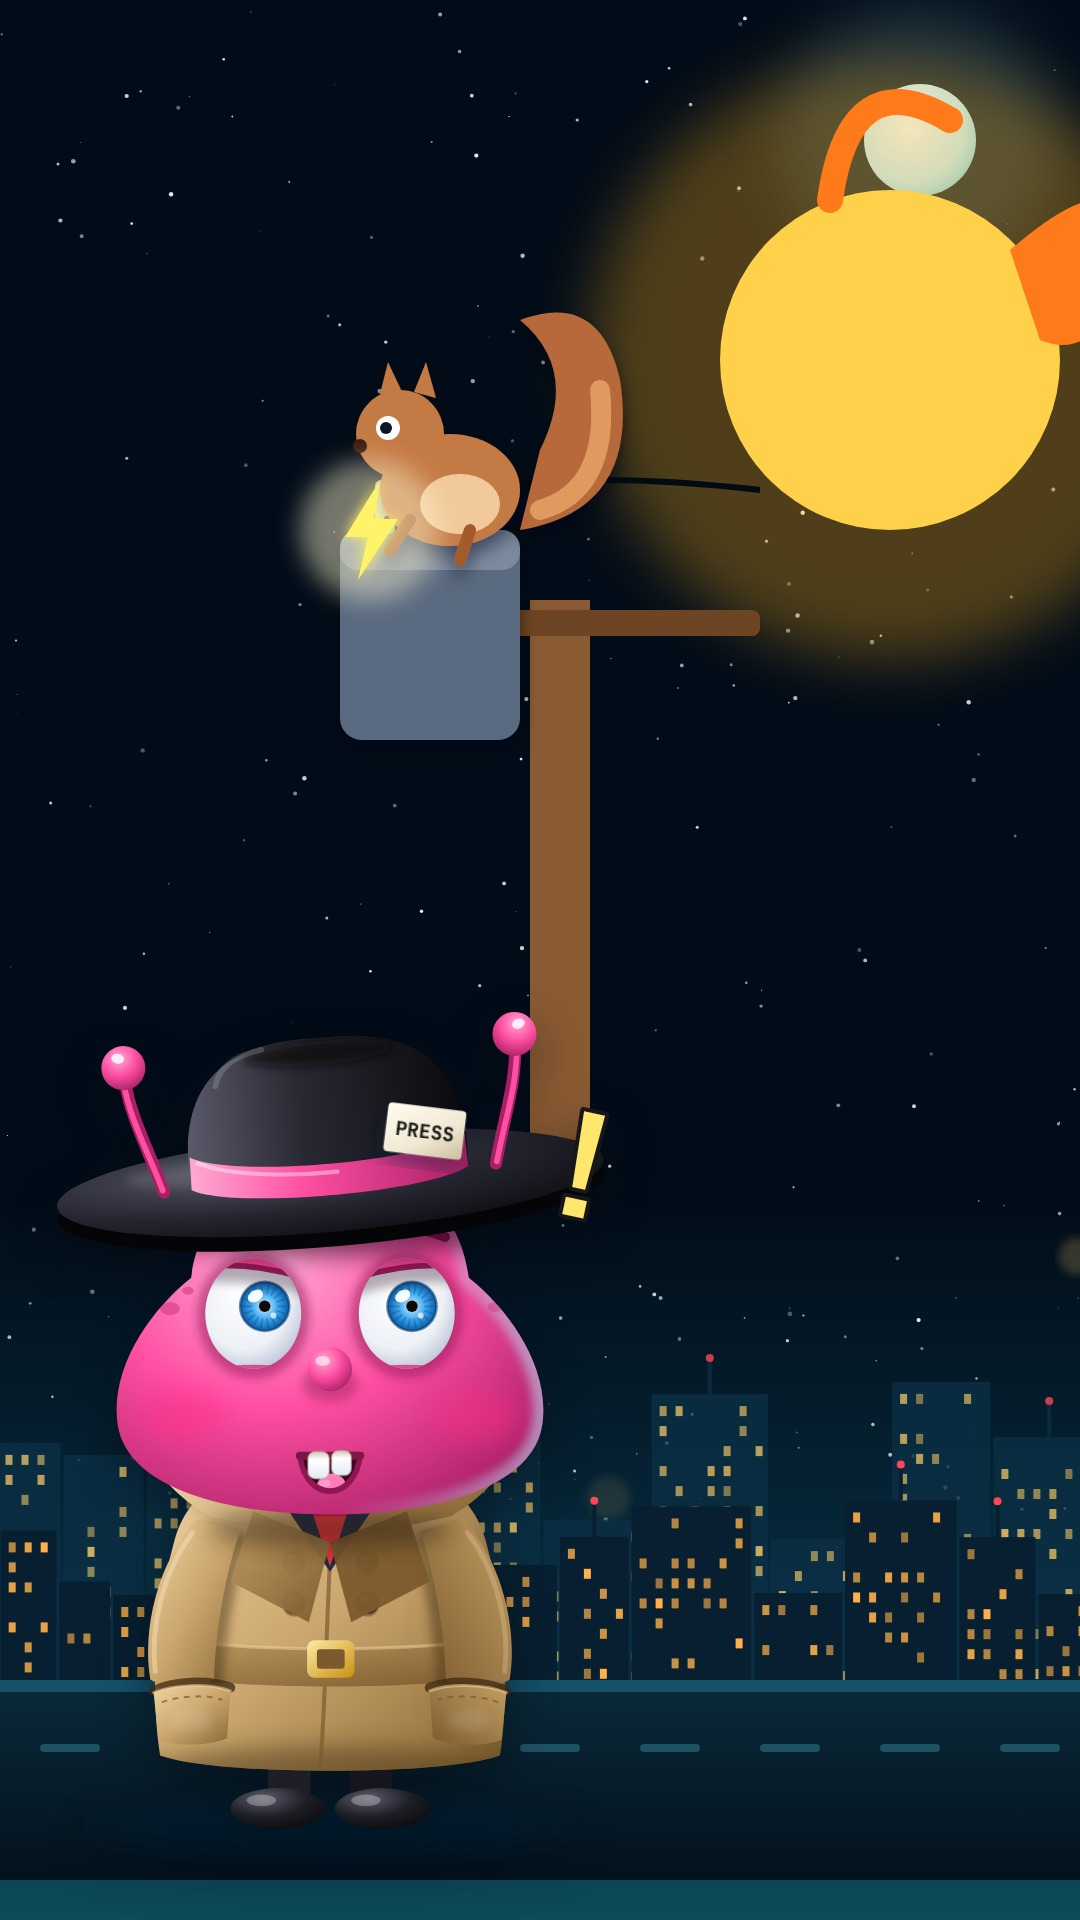
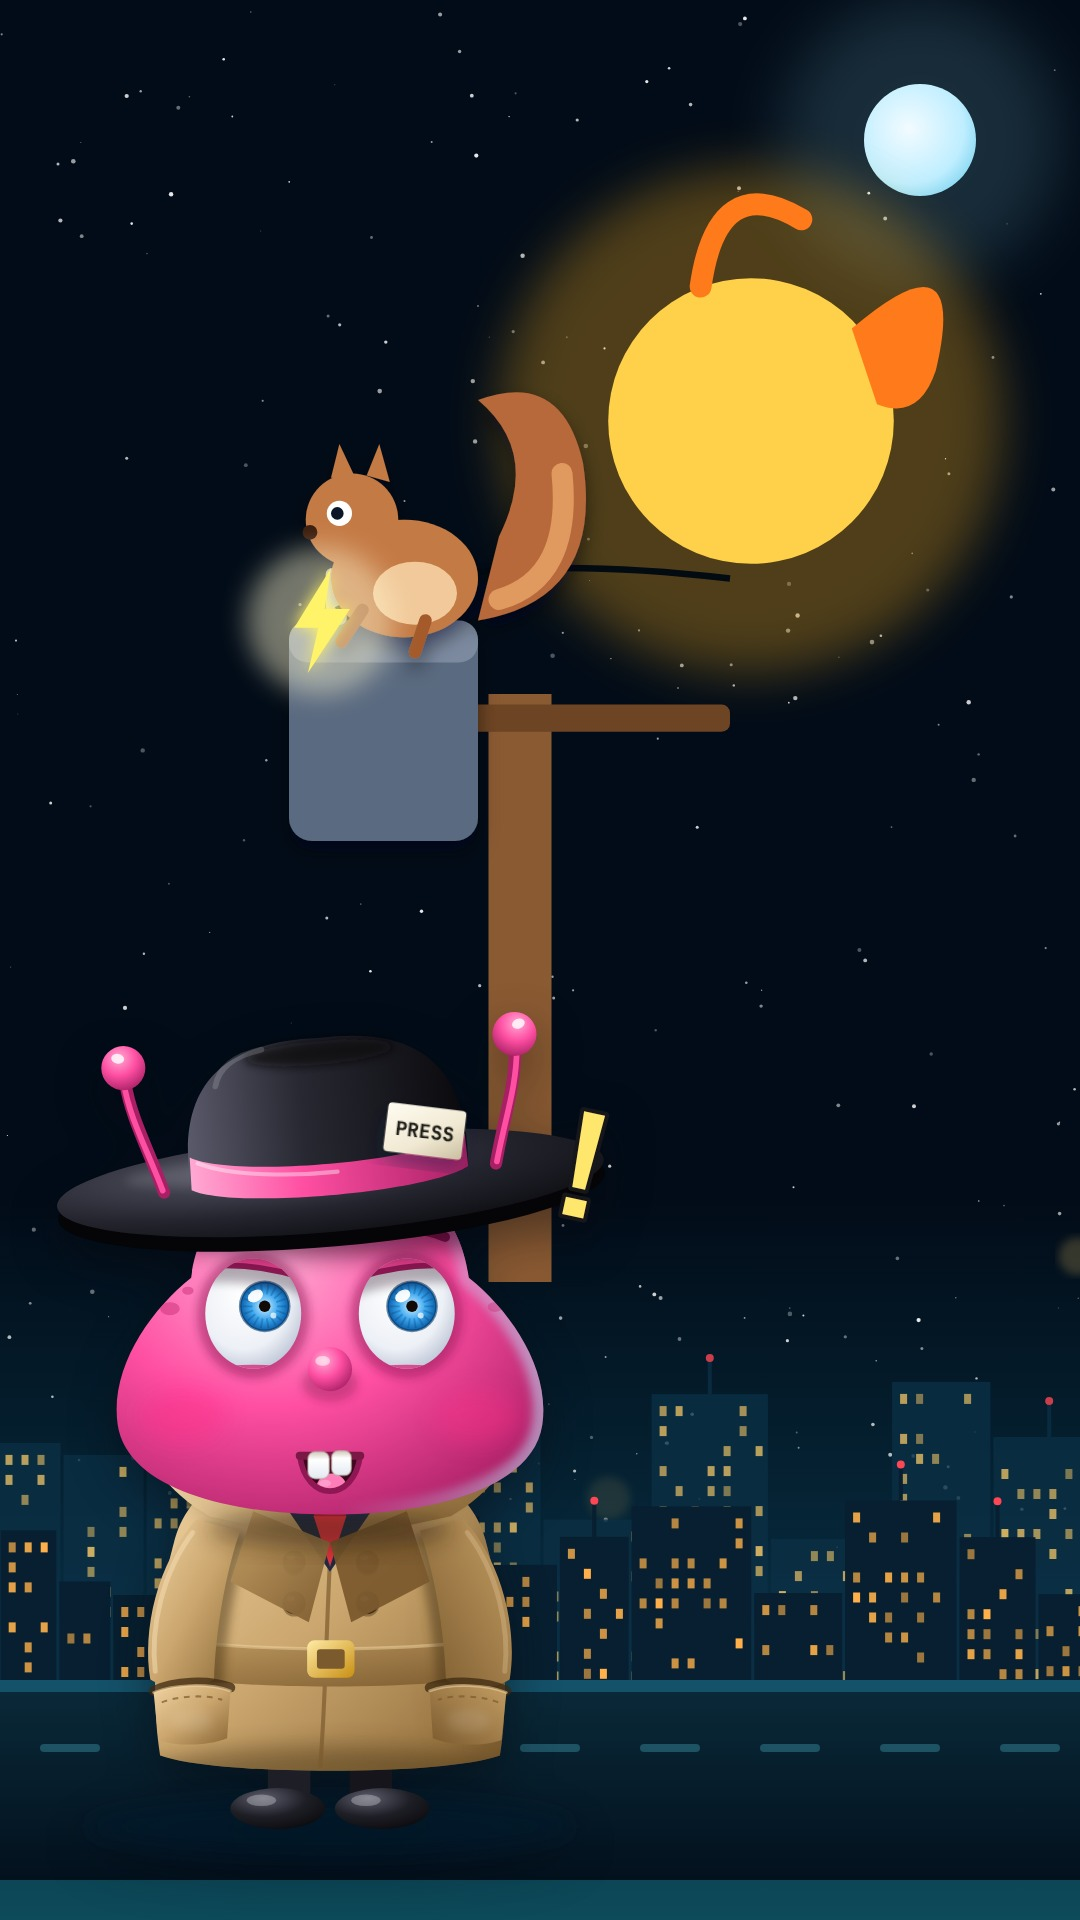
Electricity part 3: thumbnails in progress
Claude-Session: https://claude.ai/code/session_01Ey97nkhua6Ttnp4J1ZLq9L

Changed region(s): [[0.2139, 0.0, 1.0, 0.5938], [0.4278, 0.625, 0.5194, 0.6875]]

diff --git a/video/sets/blackstart.js b/video/sets/blackstart.js
@@ -1,5 +1,87 @@
-// Stub for the "blackstart" set of electricity part 3: replaced by the drawn set (episodes/techforbadguys/explain-electricity-03-world/shots.md).
-import { camAt, layer, text, makeSet } from "./kit.js";
-import { P, stars } from "./elec.js";
-const stub = (k) => (a, tot) => { const c = camAt(a, [[0, 960, 540, 1]]); return { g: `<rect width="1920" height="1080" fill="url(#bnight)"/>` + layer(stars(3, 60, 0, 1920, 1080, tot), c, 0.2) + text(960, 560, "blackstart " + k, 120, P.gold) }; };
-export const blackstartSet = makeSet(Array.from({ length: 12 }, (_, k) => stub(k)), [], P);
+// "Black start" (electricity part 3 of 4): how a dark country comes back.
+//   0 a dark country of towns and lines, a "?"; push into one station: it needs its own pumps, fans and computers to
+//     start, and they are dark (✗ on each word)
+//   1 the same country: a dam lights by itself (a gold star), wakes the station next to it, and the lit island grows
+//     town by town
+//   2 each piece joins only when its pulse matches the 50 Hz dial; a clock runs hours, calendar pages days; the fall is a
+//     fast arrow (s), the rise a slow one (h). Host left: the lower left is kept clear.
+// Props shared with the recap are exported (land, dam).
+import { clamp, lerp, ease, easeOut, seg, spring, rnd, kf, camAt, layer, toScreen, rr, two, disc, rings, text, drawn, at, check, cross, FW, FH, makeSet, portrait } from "./kit.js";
+import { V } from "./blackstart.v.js";
+import { P, E, mix, stars, pop, station, gauge } from "./elec.js";
+import { calPage, calFlip } from "./props.js";
+import { dial, stopwatch, signal, RED } from "./balance.js";
+
+const LAND = "#164a62", LANDD = "#0f3a4f", DARKW = "#12303e";
+// the country, stylised, in world coordinates about 200..1720 x 140..940
+export const LANDP = "M260 520L330 360L480 260L700 200L960 170L1220 200L1450 260L1620 380L1700 540L1640 720L1480 840L1240 910L960 930L700 900L470 830L310 700Z";
+// towns (x, y) and the lines between them; the dam (index 0) is in the hills at the top left
+export const TOWNS = [[520, 330], [700, 420], [900, 360], [1100, 300], [1320, 380], [1500, 500], [1400, 680], [1180, 760], [940, 700], [700, 660], [520, 560], [1100, 540], [880, 540], [1300, 560]];
+const LINKS = [[0, 1], [1, 2], [2, 3], [3, 4], [4, 5], [5, 6], [6, 7], [7, 8], [8, 9], [9, 10], [10, 1], [1, 12], [12, 11], [11, 4], [11, 13], [13, 6], [12, 8], [2, 12], [11, 7]];
+export const land = (on, o = {}) => { // on(i) 0..1 for each town
+  const lines = LINKS.map(([i, j]) => { const L = Math.min(on(i), on(j)); return `<path d="M${TOWNS[i][0]} ${TOWNS[i][1]}L${TOWNS[j][0]} ${TOWNS[j][1]}" stroke="${mix("#21495c", E.el, L)}" stroke-width="7" opacity=".9"/>`; }).join("");
+  const dots = TOWNS.map(([x, y], i) => { if (i === 0 && !o.noDam) return ""; const L = on(i); return `${L > 0 ? rings(x, y, 34, P.win, 0.3 * L, 1.5) : ""}${[0, 1, 2].map((k) => `<rect x="${x - 26 + k * 18}" y="${y - 16 - (k % 2) * 10}" width="14" height="${26 + (k % 2) * 10}" rx="3" fill="${mix(DARKW, P.win, L)}"/>`).join("")}`; }).join("");
+  return two(LANDP, LAND, LANDD, 0, 12) + `<path d="M380 260Q520 300 560 420Q600 560 760 600" fill="none" stroke="${E.waterD}" stroke-width="14" opacity=".8"/>` + lines + dots; };
+// a dam (base on y = 0), 220 wide; lit 0..1
+export const dam = (lit = 0, t = 0) => `${two("M-110 0L-80 -150H80L110 0Z", "#9fb6c8", "#7890a5", 0, 8)}<path d="M-60 -150H60L50 -170H-50Z" fill="#7890a5"/>${[-40, 0, 40].map((x) => `<path d="${rr(x - 10, -120, 20, 120, 6)}" fill="${mix("#2a5a72", E.water, lit)}" opacity="${(0.5 + 0.5 * lit).toFixed(2)}"/>`).join("")}<path d="M-180 -150H-80" stroke="${E.water}" stroke-width="18"/>${lit > 0 ? rings(0, -90, 120 * lit, P.gold, 0.25 * lit, 1.5) : ""}<circle cx="0" cy="-185" r="12" fill="${mix("#2a3f4a", P.win, lit)}"/>`;
+const star = (r, c = P.gold) => `<path d="${Array.from({ length: 10 }, (_, i) => { const q = i / 10 * 2 * Math.PI - Math.PI / 2, R = i % 2 ? r * 0.45 : r; return `${i ? "L" : "M"}${(R * Math.cos(q)).toFixed(1)} ${(R * Math.sin(q)).toFixed(1)}`; }).join("")}Z" fill="${c}"/>`;
+// the three things a station needs to start (centre each, about 120 across); on 0..1
+const pump = (on, t) => `${two(rr(-60, -40, 120, 80, 16), "#5b7f8f", "#45687a", 0, 6)}<g transform="rotate(${(t * 200 * on).toFixed(1)})">${[0, 1, 2, 3].map((i) => `<path d="M0 0L30 -8L30 8Z" fill="${mix("#2a3f4a", E.water, on)}" transform="rotate(${i * 90})"/>`).join("")}</g><path d="M60 0H100" stroke="${E.waterD}" stroke-width="16"/>`;
+const fan = (on, t) => `${disc(0, 0, 64, "#5b7f8f", "#45687a")}<g transform="rotate(${(t * 400 * on).toFixed(1)})">${[0, 1, 2].map((i) => `<path d="M0 0Q30 -50 6 -56Q-12 -40 0 0Z" fill="${mix("#2a3f4a", "#cfe6f0", on)}" transform="rotate(${i * 120})"/>`).join("")}</g><circle r="10" fill="${P.ink}"/>`;
+const pc = (on) => `${two(rr(-70, -60, 140, 96, 10), "#2b5a74", "#1c4157", 0, 6)}<path d="${rr(-58, -50, 116, 76, 6)}" fill="${mix("#04121e", "#0b3346", on)}"/>${on > 0 ? `<path d="M-46 0L-20 -18L6 -6L40 -30" fill="none" stroke="${E.el}" stroke-width="6"/>` : ""}<path d="M-20 36h40l8 18h-56Z" fill="${P.steelD}"/>`;
+const night = (c, tot, seed = 5) => `<rect width="${FW}" height="${FH}" fill="url(#bnight)"/>` + layer(stars(seed, 110, -1200, 3200, 1200, tot), c, 0.15);
+const DAM = TOWNS[0], ST = [960, 520];
+
+// ---- 0: the country is dark; a station needs power to start ----
+function s0(a, tot) {
+  const v = portrait();
+  const c = camAt(a, v ? [[0, 960, 540, 0.66], [3.6, 960, 540, 0.68], [4.6, ST[0], ST[1] + 20, 2.6], [8.61, ST[0], ST[1] + 20, 2.7]] : [[0, 960, 540, 1.0], [3.6, 960, 540, 1.04], [4.6, ST[0], ST[1] - 20, 3.0], [8.61, ST[0], ST[1] - 20, 3.12]]);
+  const q = a > 2.0 ? at(960, 120, `${rings(0, -60, 110, P.gold, 0.25)}${text(0, 30, "?", 220, P.gold)}`, pop(a - 2.14) * (1 - seg(a, 3.7, 4.2))) : "";
+  const st = at(ST[0], ST[1] + 60, station(tot, { lit: 0, smoke: false }), 0.3);
+  const needs = [[6.28, -150, 0, pump], [7.0, 0, -130, fan], [7.64, 150, 0, pc]].map(([t0, dx, dy, f]) => a > t0 - 0.05 ? at(ST[0] + dx, ST[1] + dy, `${f(0, tot)}${at(44, -44, cross(0, 0, 22, RED, a - t0 - 0.15))}`, 0.42 * pop(a - t0)) : "").join("");
+  const g = night(c, tot, 13) + layer(land(() => 0) + at(DAM[0], DAM[1] + 40, dam(0), 0.42) + st + needs + q, c);
+  return { g, out: toScreen(c, ST[0], ST[1] + 30), outC: "#04121e", outZ: 10 };
+}
+
+// ---- 1: a dam starts alone and the island grows ----
+function s1(a, tot) {
+  const v = portrait();
+  const c = camAt(a, v ? [[0, 760, 520, 1.1], [5.0, 760, 500, 1.1], [7.2, 960, 540, 0.66], [8.96, 960, 540, 0.68]] : [[0, 820, 440, 1.6], [5.0, 760, 460, 1.55], [7.1, 960, 540, 1.0], [8.96, 960, 540, 1.03]]);
+  const self = seg(a, 3.07, 3.5);
+  const d0 = Math.hypot(TOWNS[1][0] - DAM[0], TOWNS[1][1] - DAM[1]);
+  const R = a < 5.63 ? 0 : a < 7.06 ? d0 + 10 : lerp(d0 + 10, 1300, ease(seg(a, 7.06, 8.6)));
+  const on = (i) => i === 0 ? self : clamp((R - Math.hypot(TOWNS[i][0] - DAM[0], TOWNS[i][1] - DAM[1])) / 80);
+  const wake = signal(DAM[0], DAM[1], TOWNS[1][0], TOWNS[1][1], seg(a, 5.0, 5.63));
+  const hi = a > 1.8 && a < 3.2 ? rings(DAM[0], DAM[1] - 20, 80 + 10 * Math.sin(a * 8), P.gold, 0.3, 1.4) : "";
+  const st = a > 3.0 ? at(DAM[0] + 90, DAM[1] - 110, star(36 * spring(a - 3.07, 7, 12))) : "";
+  const g = night(c, tot, 13) + layer(land(on) + at(DAM[0], DAM[1] + 40, dam(self, tot), 0.42) + hi + st + wake, c);
+  return { g, in: toScreen(c, ST[0], ST[1]), inC: "#04121e" };
+}
+
+// ---- 2: every piece in step; the fall is fast, the rise slow (host left) ----
+function s2(a, tot) {
+  const v = portrait();
+  const c = camAt(a, v ? [[0, 960, 900, 1.0], [7.52, 960, 900, 1.02]] : [[0, 980, 520, 1.0], [7.52, 980, 520, 1.02]]);
+  const DX = v ? 960 : 1150, DY = v ? 420 : 400;
+  const big = at(DX, DY, dial(50 + 0.03 * Math.sin(tot * 3), { r: v ? 230 : 220 }));
+  // three pieces with their own small dial; each needle sweeps, locks on 50, and the piece slides into the island
+  const T = [0.34, 1.36, 2.0];
+  const pieces = T.map((t0, i) => { const lock = seg(a, t0 + 0.4, t0 + 0.7), join = ease(seg(a, t0 + 0.7, t0 + 1.3));
+    const f = lock < 1 ? 50 + 0.7 * Math.sin(a * 6 + i) * (1 - lock) : 50;
+    const x0 = v ? 300 + i * 240 : 480 + i * 30, y0 = v ? 900 : 230 + i * 180, x1 = v ? 760 + i * 140 : DX - 120 + i * 120, y1 = v ? 760 : DY + 330;
+    const x = lerp(x0, x1, join), y = lerp(y0, y1, join), k = lerp(1, 0.6, join);
+    return at(x, y, `${two(rr(-100, -60, 200, 120, 18), "#164a62", "#0f3a4f", 0, 6)}${[0, 1, 2].map((j) => `<rect x="${-70 + j * 26}" y="-30" width="18" height="40" rx="3" fill="${mix(DARKW, P.win, join)}"/>`).join("")}${at(56, -2, dial(f, { r: 40, lit: lock }), 1)}${lock >= 1 ? rings(56, -2, 50, P.green, 0.3 * (1 - join), 1.3) : ""}`, k); }).join("");
+  // hours on a clock, days on calendar pages
+  const CX = v ? 760 : 1540, CY = v ? 1180 : 760;
+  const clock = a > 3.3 ? at(CX, CY, `${stopwatch(seg(a, 3.36, 5.4) * 6, 70)}${at(120, 0, text(0, 30, "h", 80, P.gold))}`, pop(a - 3.36)) : "";
+  const days = a > 4.4 ? at(CX + 300, CY - 10, [0, 1, 2].map((k) => k === 0 ? calPage("3", "", 0.5, 150) : calFlip(String(k === 2 ? 1 : 2), "", seg(a, 4.6 + (2 - k) * 0.3, 4.9 + (2 - k) * 0.3), 150)).join(""), 0.5 * pop(a - 4.5)) : "";
+  // the fall and the rise
+  const AX = v ? 760 : 780, AY = v ? 1520 : 800;
+  const fall = a > 5.4 ? at(AX, AY, `${drawn("M0 -150L0 120", seg(a, 5.44, 5.6), RED, 26)}<path d="M-50 70L0 140L50 70Z" fill="${RED}" opacity="${seg(a, 5.55, 5.65).toFixed(2)}"/>${at(90, 10, text(0, 30, "s", 90, RED), seg(a, 5.6, 5.8))}`) : "";
+  const rise = a > 6.25 ? at(AX + 300, AY, `${drawn("M0 140L0 -130", seg(a, 6.3, 7.4), P.gold, 26)}<path d="M-50 -80L0 -150L50 -80Z" fill="${P.gold}" opacity="${seg(a, 7.2, 7.4).toFixed(2)}"/>${at(90, 10, text(0, 30, "h", 90, P.gold), seg(a, 6.5, 6.8))}`) : "";
+  const g = night(c, tot, 29) + layer(big + pieces + clock + days + fall + rise, c);
+  return { g, in: toScreen(c, DX, DY), inC: "#04121e" };
+}
+
+const SHOTS = [s0, s1, s2];
+export const blackstartSet = makeSet(SHOTS, V, P);

diff --git a/video/sets/texas.js b/video/sets/texas.js
@@ -24,27 +24,27 @@ const ground = (G) => `<rect x="-1200" y="${G}" width="4400" height="1400" fill=
 // ---- 0: snow, Feb 2021, Texas; the station and the gas freeze; every heater on ----
 function s0(a, tot, s, o = {}) {
   const v = !!o.vert, c = camAt(a, v ? [[0, 960, 900, 1.0], [10.4, 960, 880, 1.03]] : [[0, 1080, 620, 1.22], [10.4, 1080, 610, 1.27]]), G = v ? 1300 : 860;
-  const HX = v ? [700, 1220, 700, 1220] : [1060, 1330, 1600, 1870], HY = v ? [G, G, G - 380, G - 380] : [G, G, G, G];
+  const HX = v ? [620, 960, 1300] : [1060, 1330, 1600, 1870], HY = v ? [G, G, G] : [G, G, G, G];
   const heat = ease(seg(a, 9.49, 9.9)), frost = ease(seg(a, 5.67, 6.5)), gasF = ease(seg(a, 6.92, 7.5));
-  const st = at(v ? 760 : 520, v ? G - 820 : G, station(tot, { lit: 1 - 0.5 * frost, smoke: frost < 0.4 }) + (frost > 0 ? `<path d="M-320 -296L0 -420L320 -296Z" fill="${ICE}" opacity="${(0.9 * frost).toFixed(2)}"/><path d="${rr(150, -575, 110, 30, 6)}" fill="${ICE}" opacity="${frost.toFixed(2)}"/>${[-210, -70, 70, 210].map((x) => `<path d="M${x - 44} -190A44 44 0 0 1 ${x + 44} -190" fill="none" stroke="${ICE}" stroke-width="10" opacity="${frost.toFixed(2)}"/>`).join("")}` : ""), v ? 0.55 : 0.72);
-  const px = v ? 300 : 840, py = v ? G - 360 : G - 40;
+  const st = at(v ? 960 : 520, v ? G - 520 : G, station(tot, { lit: 1 - 0.5 * frost, smoke: frost < 0.4 }) + (frost > 0 ? `<path d="M-320 -296L0 -420L320 -296Z" fill="${ICE}" opacity="${(0.9 * frost).toFixed(2)}"/><path d="${rr(150, -575, 110, 30, 6)}" fill="${ICE}" opacity="${frost.toFixed(2)}"/>${[-210, -70, 70, 210].map((x) => `<path d="M${x - 44} -190A44 44 0 0 1 ${x + 44} -190" fill="none" stroke="${ICE}" stroke-width="10" opacity="${frost.toFixed(2)}"/>`).join("")}` : ""), v ? 0.62 : 0.72);
+  const px = v ? 960 : 840, py = v ? G + 170 : G - 40;
   const pipe = at(px, py, `<path d="M-200 0H200" stroke="${mix("#c8a24a", ICE, gasF)}" stroke-width="40" stroke-linecap="round"/>${gasF > 0 ? `<path d="M-200 -16H200" stroke="${SNOW}" stroke-width="12" stroke-linecap="round" opacity="${gasF.toFixed(2)}"/>` : ""}
     <path d="${rr(-30, -90, 60, 70, 10)}" fill="${P.steelD}"/>${gasF < 1 ? `<path d="M0 -150Q-26 -116 0 -96Q26 -116 0 -150Z" fill="#5fb6ff" opacity="${(1 - gasF).toFixed(2)}"/>` : ""}`, pop(a - 6.6));
-  const houses = HX.map((x, i) => at(x, HY[i], snowHouse(i, heat, 0), v ? 0.72 : 0.82)).join("");
-  const cal = a > 1.4 ? at(v ? 960 : 640, v ? 260 : 320, calPage("2021", "FEB", 0.75, 150), pop(a - 1.5)) : "";
-  const pl = a > 4.6 ? at(v ? 960 : 1500, v ? 470 : 330, plate("TEXAS", 54), pop(a - 4.78)) : "";
+  const houses = HX.map((x, i) => at(x, HY[i], snowHouse(i, heat, 0), v ? 0.95 : 0.82)).join("");
+  const cal = a > 1.4 ? at(v ? 780 : 1150, v ? 300 : 320, calPage("2021", "FEB", 0.75, 150), pop(a - 1.5)) : "";
+  const pl = a > 4.6 ? at(v ? 1180 : 1560, v ? 300 : 330, plate("TEXAS", 54), pop(a - 4.78)) : "";
   const g = sky(c, tot, 101) + layer(ground(G) + st + pipe + houses + cal + pl, c) + snow(tot, 90, FW, FH);
   return { g, out: toScreen(c, v ? 960 : 1260, v ? G - 120 : G - 120), outC: "#0a2433" };
 }
 
 // ---- 1: the balance tips; blocks switched dark on purpose; 4,000,000+ homes ----
-const ROWS = (v) => (v ? [[300, 1050], [300, 1340], [300, 1630]] : [[210, 650], [210, 960]]);
+const ROWS = (v) => (v ? [[560, 1050], [560, 1340], [560, 1630]] : [[210, 650], [210, 960]]);
 function s1(a, tot, s, o = {}) {
   const v = !!o.vert, c = camAt(a, v ? [[0, 960, 960, 1.0], [7.33, 960, 960, 1.0]] : [[0, 960, 540, 1.0], [7.33, 960, 540, 1.02]]);
   const tip = ease(seg(a, 0.38, 0.9)), bx = v ? 960 : 960, by = v ? 330 : 190;
   const beam = at(bx, by, `<path d="M-30 120L0 0L30 120Z" fill="#7f93b8"/><g transform="rotate(${(-18 * tip).toFixed(1)})"><path d="M-260 0H260" stroke="${P.gold}" stroke-width="14" stroke-linecap="round"/><path d="${rr(-310, 20, 100, 40, 8)}" fill="${HEAT}"/><path d="${rr(210, 20, 100, 40, 8)}" fill="#7f93b8"/></g>${disc(0, 0, 16, P.gold, P.goldD)}`, 0.9 * pop(a - 0.1));
   const N = v ? 6 : 6, rows = ROWS(v), cut = (r, i) => clamp((a - 3.56 - (r * N + i) * 0.11) / 0.12);
-  const town = rows.map(([x0, y], r) => Array.from({ length: N }, (_, i) => { const k = cut(r, i); return at(x0 + i * (v ? 120 : 300) + (v ? 0 : (r % 2) * 150), y, snowHouse(i + r, 1, k), v ? 0.42 : 0.78); }).join("")).join("");
+  const town = rows.map(([x0, y], r) => Array.from({ length: N }, (_, i) => { const k = cut(r, i); return at(x0 + i * (v ? 160 : 300) + (v ? 0 : (r % 2) * 150), y, snowHouse(i + r, 1, k), v ? 0.52 : 0.78); }).join("")).join("");
   const cnt = a > 5.4 ? at(v ? 960 : 960, v ? 650 : 360, tagV("4,000,000+", "", { size: v ? 96 : 104 }) + at(v ? 360 : 380, -10, house(E.houseA, E.houseAD, { roof: E.roof, lit: [0, 0, 0] }), 0.28), pop(a - 5.52)) : "";
   const g = sky(c, tot, 103) + layer(`<rect x="-1200" y="${v ? 1700 : 975}" width="4400" height="900" fill="#2a4a5c"/>` + beam + town + cnt, c) + snow(tot, 70, FW, FH, 9);
   return { g, in: toScreen(c, 960, v ? 1100 : 700), inC: "#0a2433", out: toScreen(c, 960, v ? 1100 : 700), outC: "#04121e" };

diff --git a/video/sets/blackstart.v.js b/video/sets/blackstart.v.js
@@ -1,0 +1,4 @@
+// "Black start" in portrait (1080 x 1920): blackstart.js lays its shots out for the tall frame when portrait() is true
+// (the country map pulled back to fit the width, the dial on top with the pieces, clock and arrows stacked below), so each
+// entry keeps the shot's own camera.
+export const V = [{}, {}, {}];
